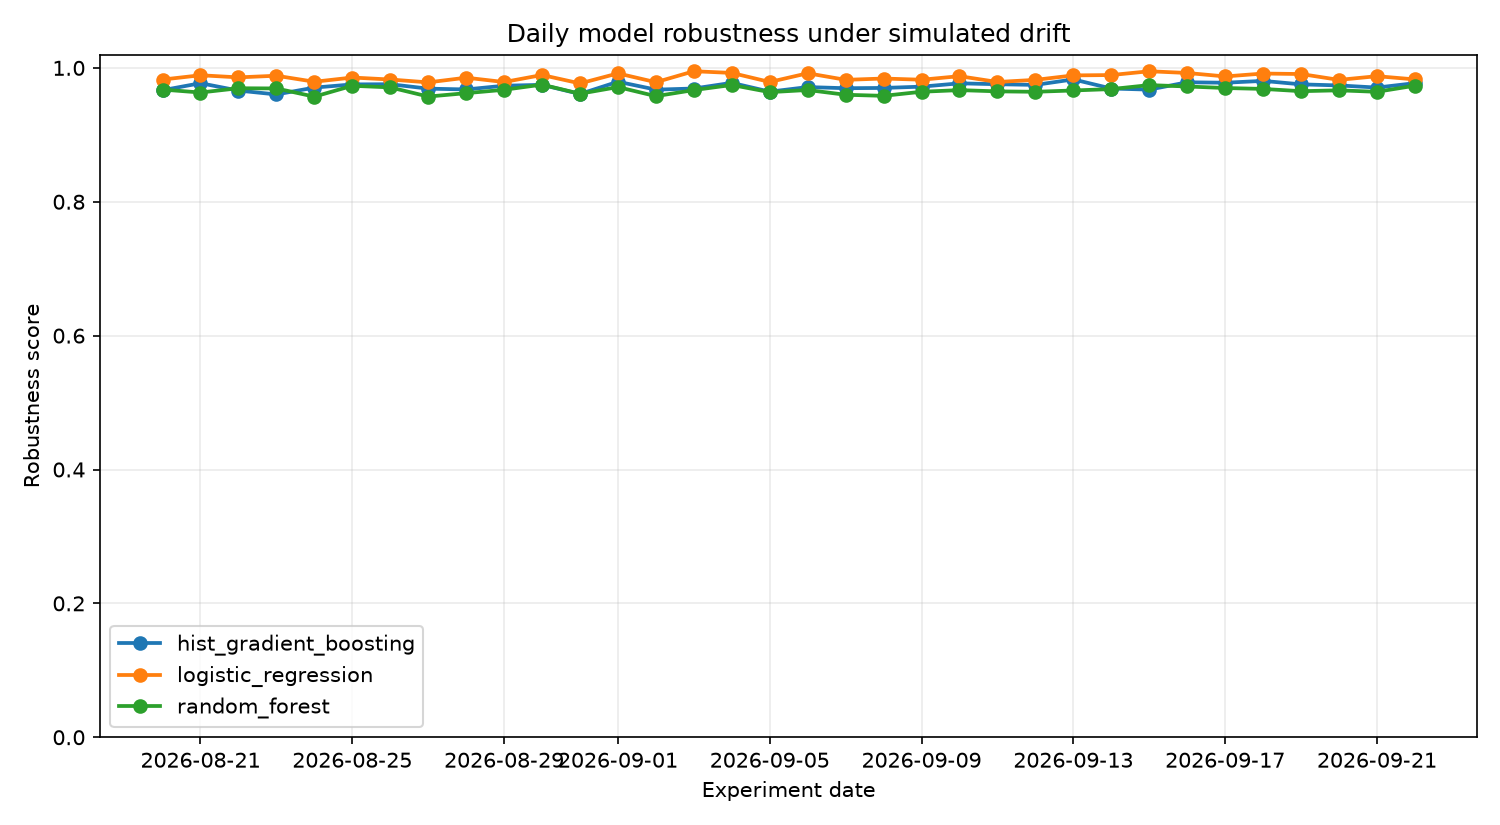
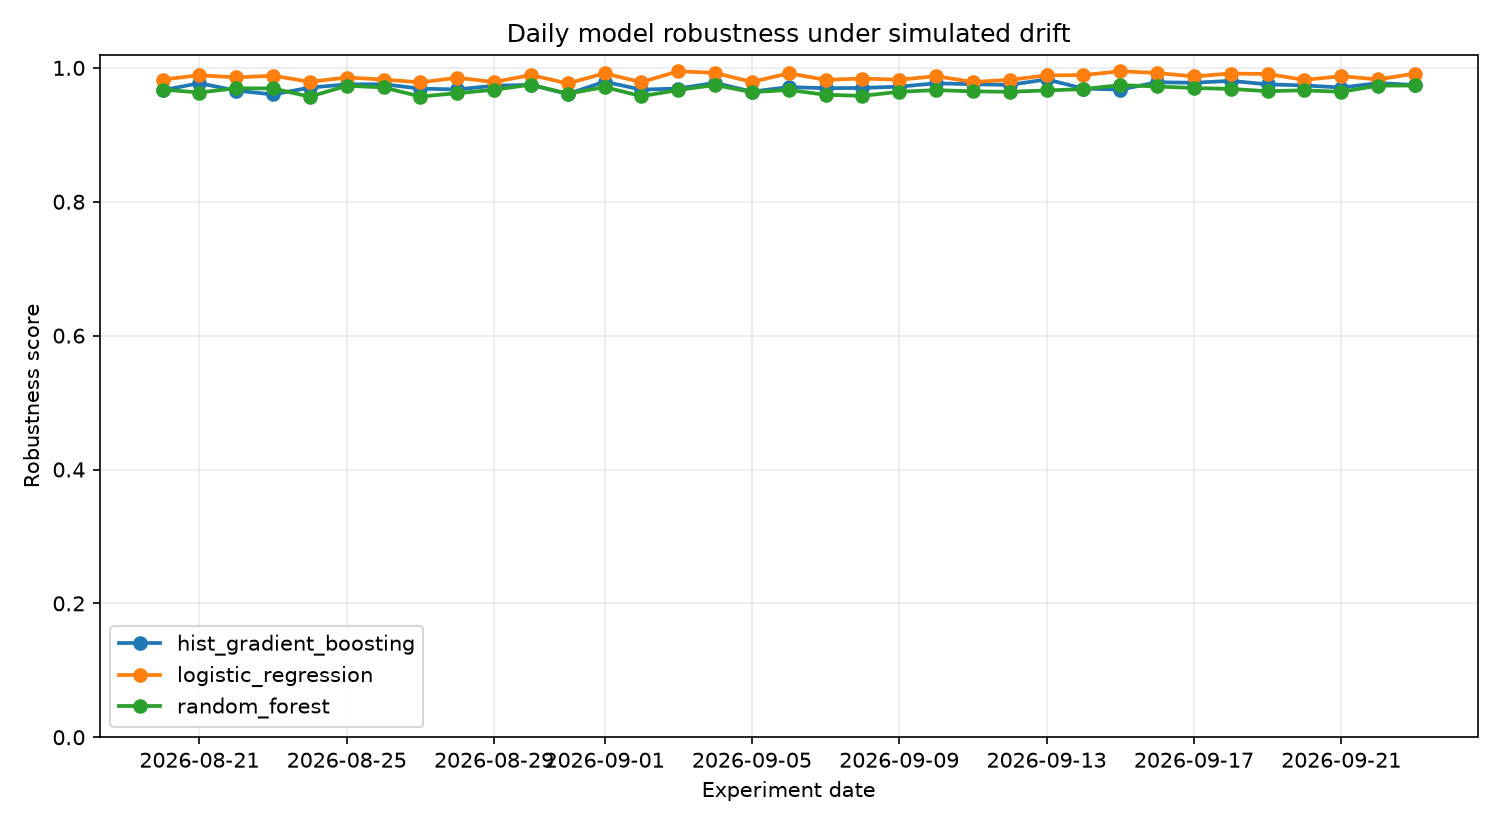
chore(observatory): daily drift benchmark 2026-09-23

Changed region(s): [[0.1227, 0.0606, 0.9507, 0.1212], [0.092, 0.9091, 0.9507, 0.9394]]

diff --git a/reports/latest.md b/reports/latest.md
@@ -1,37 +1,37 @@
 # Latest DriftWatch Report
 
-**Experiment date:** 2026-09-22
+**Experiment date:** 2026-09-23
 
 ## Drift scenario
 
-- Drift strength: `0.498`
-- Scale factor: `0.950`
-- Noise ratio: `0.085`
+- Drift strength: `0.472`
+- Scale factor: `0.953`
+- Noise ratio: `0.082`
 - Mask ratio: `0.022`
-- Affected features: mean radius, mean fractal dimension, radius error, perimeter error, area error, symmetry error, worst perimeter
+- Affected features: mean perimeter, perimeter error, compactness error, concave points error, worst texture, worst perimeter, worst fractal dimension
 
 ## Model ranking
 
 | Rank | Model | Robustness | ROC-AUC | F1 | Balanced Acc. | Log Loss | Brier |
 |---:|---|---:|---:|---:|---:|---:|---:|
-| 1 | `logistic_regression` | 0.9828 | 0.9972 | 0.9770 | 0.9641 | 0.0720 | 0.0200 |
-| 2 | `hist_gradient_boosting` | 0.9772 | 0.9947 | 0.9727 | 0.9531 | 0.1127 | 0.0315 |
-| 3 | `random_forest` | 0.9735 | 0.9927 | 0.9680 | 0.9485 | 0.1355 | 0.0373 |
+| 1 | `logistic_regression` | 0.9915 | 0.9982 | 0.9907 | 0.9844 | 0.0677 | 0.0185 |
+| 2 | `hist_gradient_boosting` | 0.9745 | 0.9937 | 0.9680 | 0.9485 | 0.1068 | 0.0309 |
+| 3 | `random_forest` | 0.9737 | 0.9933 | 0.9680 | 0.9485 | 0.1372 | 0.0371 |
 
 ## Highest feature drift (PSI)
 
 | Feature | PSI |
 |---|---:|
-| area error | 0.9168 |
-| radius error | 0.4812 |
-| symmetry error | 0.4273 |
-| perimeter error | 0.3797 |
-| worst perimeter | 0.3027 |
-| mean fractal dimension | 0.2256 |
-| mean radius | 0.2227 |
-| mean texture | 0.1815 |
+| perimeter error | 0.5140 |
+| compactness error | 0.3119 |
+| worst perimeter | 0.2839 |
+| mean concave points | 0.2414 |
+| worst texture | 0.2410 |
+| mean perimeter | 0.2273 |
+| worst fractal dimension | 0.2264 |
+| texture error | 0.1428 |
 
-**Mean PSI:** `0.1705`  
-**Max PSI:** `0.9168`
+**Mean PSI:** `0.1348`  
+**Max PSI:** `0.5140`
 
 _Generated automatically by the DriftWatch daily observatory pipeline._
